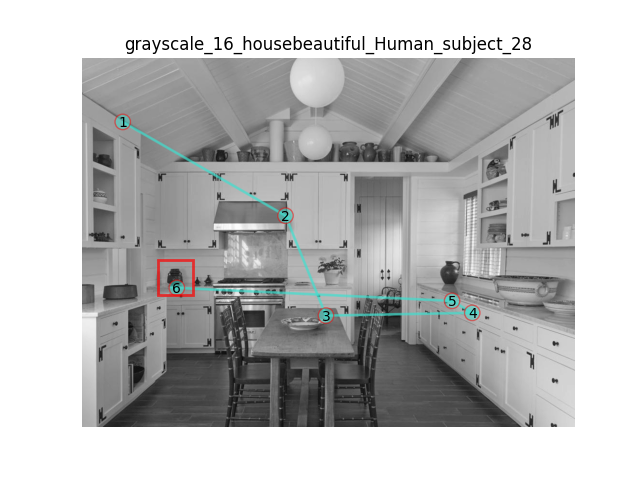
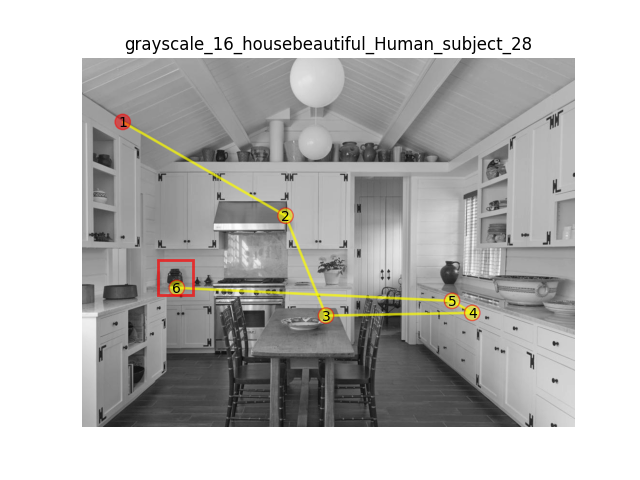
(Plots) Long saccades en diferentes colores

diff --git a/Metrics/plot_scanpath.py b/Metrics/plot_scanpath.py
@@ -21,7 +21,7 @@ def plot_scanpath(img, xs, ys, fixation_size, bbox, title, save_path):
     fig, ax = plt.subplots()
     ax.imshow(img, cmap=plt.cm.gray)
     initial_color  = 'red'
-    scanpath_color = 'cyan'
+    scanpath_color = 'yellow'
 
     for i in range(len(xs)):
         if i > 0:
